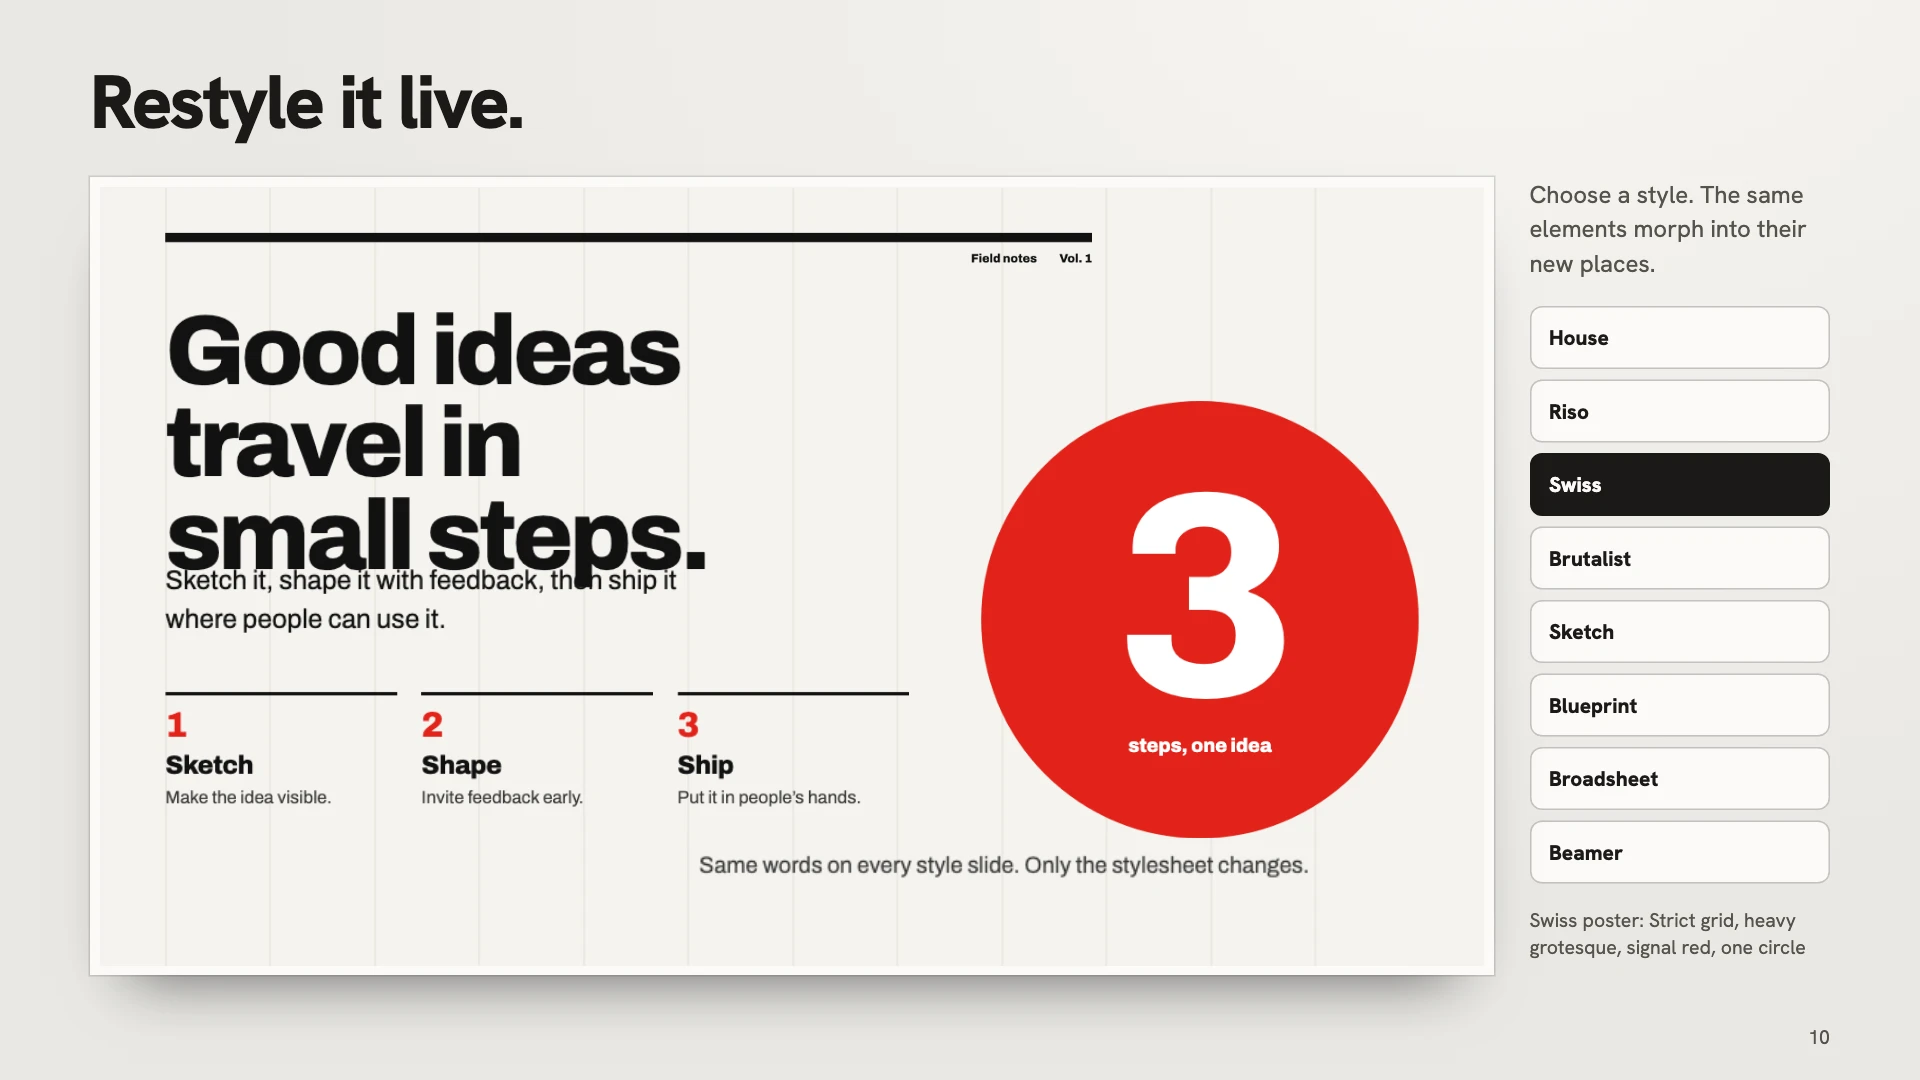
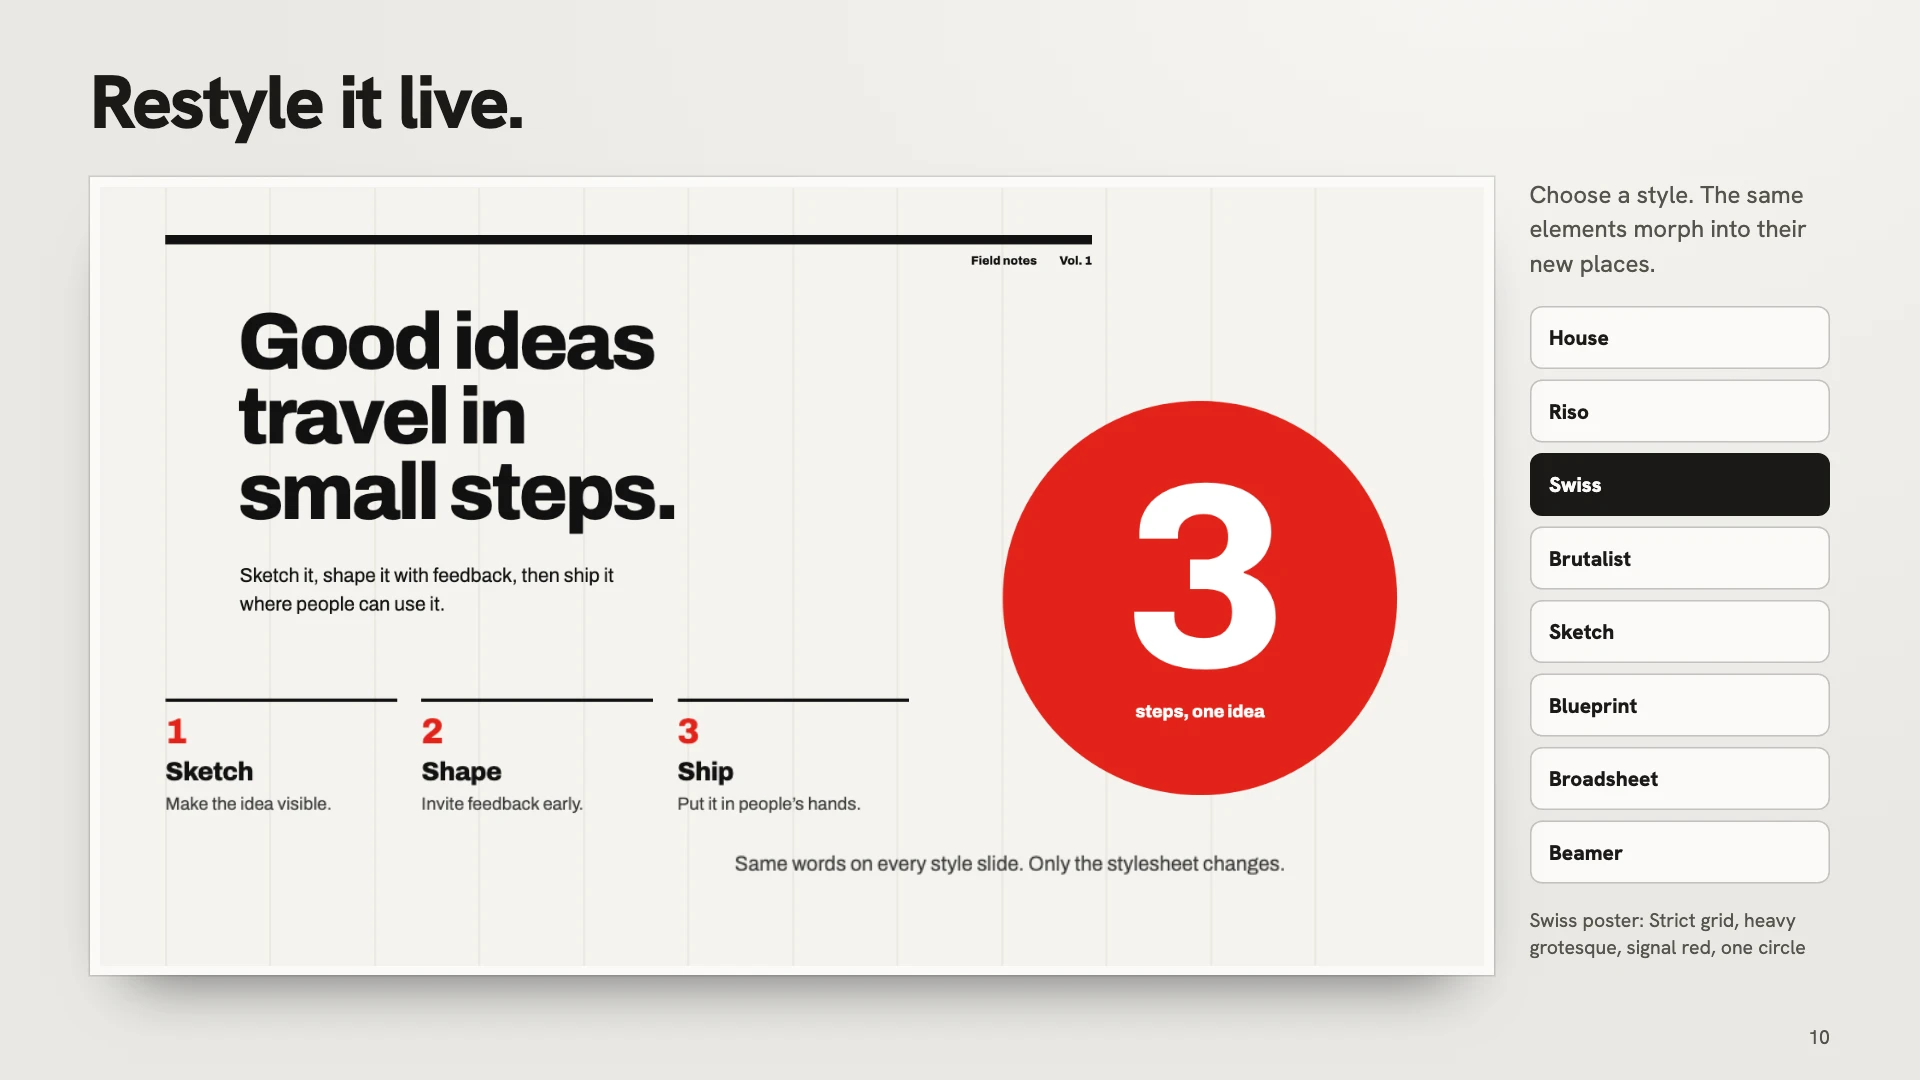
Keep the live restyle inside its frame in every browser
Size each View Transition snapshot to fit its moving box. A part that changes
shape, such as the brutalist footer becoming a sticky note, no longer scales by
width alone and spills out of the frame in Chrome and Edge.

Safari cross-fades the stage in place instead of morphing. Marp scales slides
for WebKit with a polyfill, and WebKit then reports the wrong box for every
element inside a slide (WebKit bug 23113), so a morph throws parts out of the
frame. Browsers without View Transitions use the same cross-fade.

Add tests that nothing changes outside the frame mid-morph, that the cross-fade
works without View Transitions, and, when WebKit is installed, that Safari's
engine cross-fades instead of starting a View Transition.

Copilot-Session: 9634975c-8075-45b1-8f35-5e53a9484a28

diff --git a/slides/assets/style-lab.js b/slides/assets/style-lab.js
@@ -5,6 +5,10 @@
   const printMedia = window.matchMedia("print");
   const morphNames = ["stage", "kicker", "title", "dek", "step-1", "step-2", "step-3", "stat", "note"].map((name) => `sl-live-${name}`);
   const deckKeys = new Set(["ArrowLeft", "ArrowRight", "ArrowUp", "ArrowDown", "PageUp", "PageDown", "Home", "End"]);
+  // Marp scales slides for WebKit with a polyfill, keyed on this same check, and WebKit then reports the
+  // wrong box for everything inside a slide (https://bugs.webkit.org/show_bug.cgi?id=23113). A View
+  // Transition built on those boxes throws parts out of the frame, so WebKit cross-fades in place instead.
+  const misplacedBoxes = navigator.vendor === "Apple Computer, Inc.";
 
   function transitionActive() {
     try {
@@ -28,7 +32,9 @@
     const groups = morphNames.map((name) => `::view-transition-group(${name})`).join(", ");
     const images = morphNames.map((name) => `::view-transition-old(${name}), ::view-transition-new(${name})`).join(", ");
     // Cross-fade quickly, then let the shared boxes glide, so the in-between frames stay crisp.
-    style.textContent = `${groups} { animation-duration: 720ms; animation-timing-function: cubic-bezier(.45, 0, .2, 1); } ${images} { animation-duration: 300ms; animation-timing-function: ease-out; }`;
+    // Each snapshot fits inside its moving box: a part that changes shape, such as a footer bar
+    // becoming a sticky note, would otherwise scale by width alone and spill out of the frame.
+    style.textContent = `${groups} { animation-duration: 720ms; animation-timing-function: cubic-bezier(.45, 0, .2, 1); } ${images} { height: 100%; object-fit: contain; animation-duration: 300ms; animation-timing-function: ease-out; }`;
     document.head.append(style);
   }
 
@@ -62,11 +68,31 @@
       restage(style);
     }
 
+    // Fades a copy of the old stage out over the restyled one, so nothing moves outside the frame.
+    let fading = null;
+    function crossFade(style) {
+      fading?.remove();
+      const copy = stage.cloneNode(true);
+      copy.removeAttribute("data-live-stage");
+      copy.setAttribute("aria-hidden", "true");
+      copy.inert = true;
+      stage.after(copy);
+      fading = copy;
+      apply(style);
+      copy.animate({ opacity: [1, 0] }, { duration: 450, easing: "ease-out" }).finished.catch(() => {}).finally(() => {
+        copy.remove();
+        if (fading === copy) fading = null;
+      });
+    }
+
     function choose(style) {
       if (!enhanced || style === current) return;
-      const canMorph = typeof document.startViewTransition === "function" && !reducedMotion.matches && !transitionActive();
-      if (!canMorph) {
+      if (reducedMotion.matches || transitionActive()) {
         apply(style);
+        return;
+      }
+      if (misplacedBoxes || typeof document.startViewTransition !== "function") {
+        crossFade(style);
         return;
       }
       // Update the controls before the old snapshot, so only the stage morphs.
@@ -97,6 +123,7 @@
     return {
       update(audience) {
         const nextEnhanced = audience && !printMedia.matches;
+        if (!nextEnhanced) fading?.remove();
         if (!nextEnhanced && current !== authored) apply(authored);
         enhanced = nextEnhanced;
         root.dataset.enhanced = String(enhanced);

diff --git a/README.md b/README.md
@@ -50,7 +50,9 @@ On [slide 11](https://chris-ayers.com/marp-demo/style-lab.html#11), eight
 buttons restyle the same specimen live. The runtime swaps the stage class inside
 `document.startViewTransition()`, and temporary `view-transition-name` values let
 each element move from its old box to its new one while the rendering
-cross-fades. The names exist only during a switch, so Marp's slide transitions
+cross-fades. Each snapshot fits inside its moving box, so a part that changes
+shape, such as the brutalist footer bar becoming a sticky note, stays inside the
+frame. The names exist only during a switch, so Marp's slide transitions
 are unaffected.
 
 [![The live restyle slide mid-morph from house style to Swiss poster: the headline, steps, and red stat circle are still moving into place beside eight style buttons](docs/screenshots/style-lab-live.webp)](https://chris-ayers.com/marp-demo/style-lab.html#11)
@@ -71,14 +73,19 @@ Type is part of each style, so the deck bundles **17 unmodified WOFF2 files from
 11 open font families** (about 0.5 MB) with their licenses. The HTML and PDF
 render the same fonts on any machine, including the Linux Pages runner, with no
 font CDN. Textures are CSS gradients, blend modes, and SVG data URIs; the deck
-contains no raster images. The PDF has all **thirteen pages** at about 1.7 MB:
+contains no raster images. The PDF has all **thirteen pages** in under 2 MB:
 it omits the film grain, which Chromium would rasterize on every page, and keeps
 the authored house style on the live slide.
 
 Reduced motion switches styles instantly and skips entrances. Print,
 presenter, and no-JavaScript views keep the authored house style and hide the
-buttons, which appear only in the audience window. The live morph is verified in
-Chromium; browsers without View Transitions still switch styles.
+buttons, which appear only in the audience window. Chrome and Edge morph the
+parts. Safari cross-fades the whole stage inside the frame instead: WebKit
+reports the wrong boxes for elements inside Marp's scaled slides
+([WebKit bug 23113](https://bugs.webkit.org/show_bug.cgi?id=23113), a limitation
+[Marp documents](https://github.com/marp-team/marp-cli/blob/v4.5.1/docs/bespoke-transitions/README.md#morphing-animations)
+for morphing), so a morph would throw parts out of the frame. Browsers without
+View Transitions cross-fade the same way.
 
 ## Motion Lab
 
@@ -412,7 +419,10 @@ including each gradient's brightest wash and the text on the risograph inks, whi
 must also stay clear of the overprints. They confirm that every entrance rule
 reaches a real part with its intended delay and ends exactly in the authored still.
 They also run the live morph from the mouse and keyboard, where arrow keys still
-change slides from a focused button. Reduced motion, transitions, print, presenter,
+change slides from a focused button, and confirm that no morphing part leaves the
+frame. With WebKit installed (`npx playwright install webkit`), a Safari check
+confirms that WebKit cross-fades instead of morphing; CI installs only Chromium,
+so it skips that check. Reduced motion, transitions, print, presenter,
 and no-JS fallbacks are covered, as are PDF pages and size and a license entry for
 every font file.
 README checks confirm every captured screenshot is shown, exists, and has alt text.

diff --git a/slides/Style-Lab.md b/slides/Style-Lab.md
@@ -336,8 +336,11 @@ move each element from its old box to its new one while cross-fading the
 rendering. The names exist only during a switch, so Marp's slide transitions
 are unaffected. Reduced motion switches instantly. Print, presenter, and no-JS
 views keep the authored house style, and the buttons appear only in the audience
-window. Verified in Chromium; browsers without View Transitions still switch.
-Source: https://developer.mozilla.org/docs/Web/API/View_Transition_API
+window. Chrome and Edge morph the parts. Safari cross-fades the stage instead,
+because WebKit misplaces elements inside Marp's scaled slides; browsers without
+View Transitions cross-fade too.
+Sources: https://developer.mozilla.org/docs/Web/API/View_Transition_API and
+https://bugs.webkit.org/show_bug.cgi?id=23113
 -->
 
 ---
